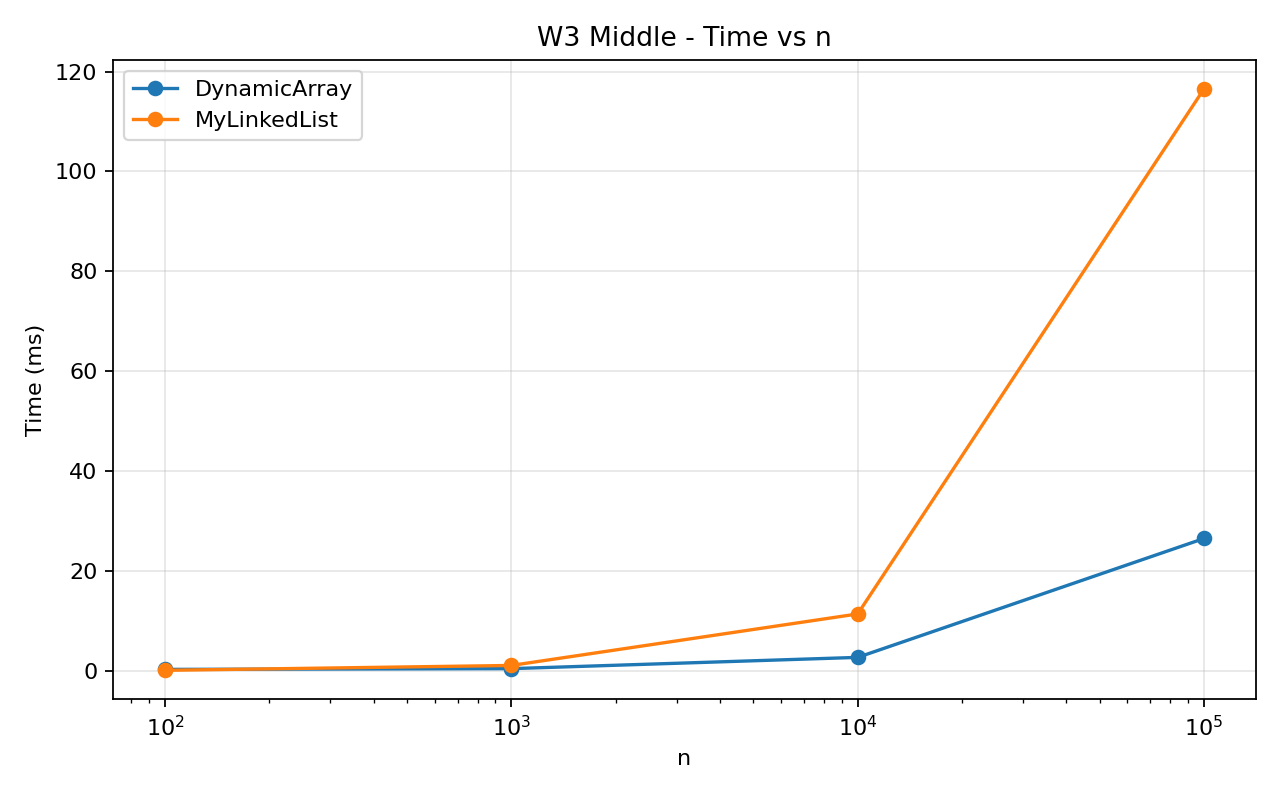
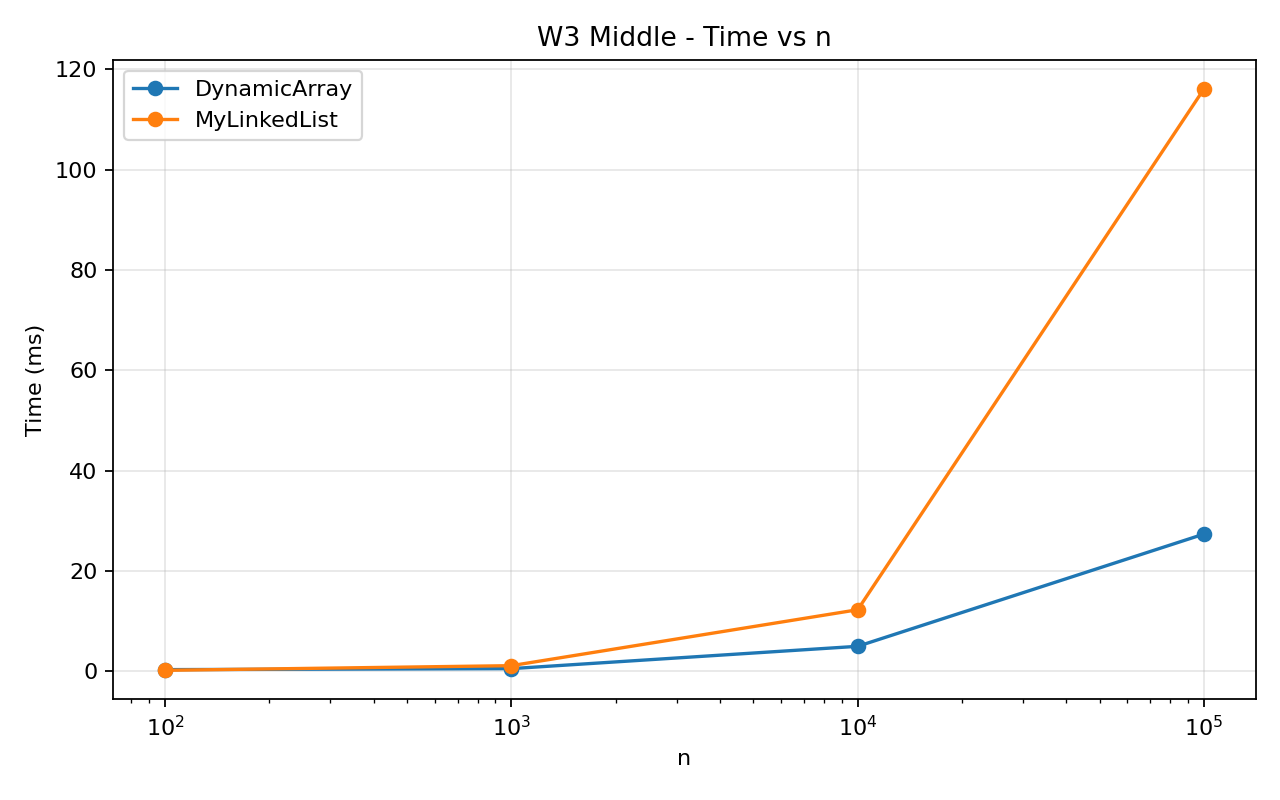
refactor(benchmark): keep benchmark code simple

diff --git a/src/main/java/assignment2/Benchmark.java b/src/main/java/assignment2/Benchmark.java
@@ -4,18 +4,13 @@ import java.io.File;
 import java.io.FileWriter;
 import java.io.IOException;
 import java.io.PrintWriter;
-import java.util.Arrays;
-import java.util.Comparator;
 import java.util.Locale;
 import java.util.Random;
 
 public class Benchmark {
     private static final int[] SIZES = {100, 1_000, 10_000, 100_000};
     private static final int RUNS = 5;
-
-    private interface Action {
-        RunResult run();
-    }
+    private static long checkValue;
 
     private static class RunResult {
         double timeMs;
@@ -25,9 +20,9 @@ public class Benchmark {
 
         RunResult(double timeMs, Metrics metrics) {
             this.timeMs = timeMs;
-            this.steps = metrics.getSteps();
-            this.moves = metrics.getMoves();
-            this.comparisons = metrics.getComparisons();
+            steps = metrics.getSteps();
+            moves = metrics.getMoves();
+            comparisons = metrics.getComparisons();
         }
     }
 
@@ -39,20 +34,20 @@ public class Benchmark {
             resultFolder.mkdirs();
         }
 
-        try (PrintWriter writer = new PrintWriter(new FileWriter("results/results.csv"))) {
-            writer.println("workload,variant,structure,n,time_ms,steps,moves,comparisons");
+        PrintWriter writer = new PrintWriter(new FileWriter("results/results.csv"));
+        writer.println("workload,variant,structure,n,time_ms,steps,moves,comparisons");
 
-            for (int n : SIZES) {
-                int[] data = createData(n);
+        for (int n : SIZES) {
+            int[] data = createData(n);
 
-                System.out.println("Running n = " + n);
-                runW1(writer, data);
-                runW2(writer, data);
-                runW3(writer, data);
-                runW4(writer, data);
-            }
+            System.out.println("Running n = " + n);
+            runW1(writer, data);
+            runW2(writer, data);
+            runW3(writer, data);
+            runW4(writer, data);
         }
 
+        writer.close();
         System.out.println("Done. Results are in results/results.csv");
     }
 
@@ -68,45 +63,54 @@ public class Benchmark {
     }
 
     private static void runW1(PrintWriter writer, int[] data) {
-        int n = data.length;
         int[] indexes = new int[10_000];
         Random random = new Random(42);
 
         for (int i = 0; i < indexes.length; i++) {
-            indexes[i] = random.nextInt(n);
+            indexes[i] = random.nextInt(data.length);
         }
 
-        RunResult arrayResult = measure(() -> runRandomAccess(new DynamicArray(), data, indexes));
-        writeRow(writer, "W1", "-", "DynamicArray", n, arrayResult);
+        RunResult arrayResult = measureRandomAccess("DynamicArray", data, indexes);
+        writeRow(writer, "W1", "-", "DynamicArray", data.length, arrayResult);
 
-        RunResult listResult = measure(() -> runRandomAccess(new MyLinkedList(), data, indexes));
-        writeRow(writer, "W1", "-", "MyLinkedList", n, listResult);
+        RunResult listResult = measureRandomAccess("MyLinkedList", data, indexes);
+        writeRow(writer, "W1", "-", "MyLinkedList", data.length, listResult);
+    }
+
+    private static RunResult measureRandomAccess(String name, int[] data, int[] indexes) {
+        runRandomAccess(createList(name), data, indexes);
+
+        RunResult[] results = new RunResult[RUNS];
+        for (int i = 0; i < RUNS; i++) {
+            results[i] = runRandomAccess(createList(name), data, indexes);
+        }
+
+        return getMedian(results);
     }
 
     private static RunResult runRandomAccess(IntList structure, int[] data, int[] indexes) {
         fillList(structure, data);
         structure.resetMetrics();
 
+        long sum = 0;
         long start = System.nanoTime();
-        long check = 0;
 
         for (int index : indexes) {
-            check += structure.get(index);
+            sum += structure.get(index);
         }
 
         long end = System.nanoTime();
-        use(check);
+        checkValue = sum;
 
         return new RunResult(toMs(start, end), structure.getMetrics());
     }
 
     private static void runW2(PrintWriter writer, int[] data) {
-        int n = data.length;
         int[] queries = new int[1_000];
         Random random = new Random(42);
 
         for (int i = 0; i < 500; i++) {
-            queries[i] = data[random.nextInt(n)];
+            queries[i] = data[random.nextInt(data.length)];
         }
 
         for (int i = 500; i < 1_000; i++) {
@@ -115,19 +119,30 @@ public class Benchmark {
 
         shuffle(queries, new Random(42));
 
-        RunResult arrayResult = measure(() -> runSearch(new DynamicArray(), data, queries));
-        writeRow(writer, "W2", "-", "DynamicArray", n, arrayResult);
+        RunResult arrayResult = measureSearch("DynamicArray", data, queries);
+        writeRow(writer, "W2", "-", "DynamicArray", data.length, arrayResult);
 
-        RunResult listResult = measure(() -> runSearch(new MyLinkedList(), data, queries));
-        writeRow(writer, "W2", "-", "MyLinkedList", n, listResult);
+        RunResult listResult = measureSearch("MyLinkedList", data, queries);
+        writeRow(writer, "W2", "-", "MyLinkedList", data.length, listResult);
+    }
+
+    private static RunResult measureSearch(String name, int[] data, int[] queries) {
+        runSearch(createList(name), data, queries);
+
+        RunResult[] results = new RunResult[RUNS];
+        for (int i = 0; i < RUNS; i++) {
+            results[i] = runSearch(createList(name), data, queries);
+        }
+
+        return getMedian(results);
     }
 
     private static RunResult runSearch(IntList structure, int[] data, int[] queries) {
         fillList(structure, data);
         structure.resetMetrics();
 
-        long start = System.nanoTime();
         int found = 0;
+        long start = System.nanoTime();
 
         for (int query : queries) {
             if (structure.contains(query)) {
@@ -136,13 +151,12 @@ public class Benchmark {
         }
 
         long end = System.nanoTime();
-        use(found);
+        checkValue = found;
 
         return new RunResult(toMs(start, end), structure.getMetrics());
     }
 
     private static void runW3(PrintWriter writer, int[] data) {
-        int n = data.length;
         int[] values = new int[1_000];
         Random random = new Random(42);
 
@@ -150,19 +164,30 @@ public class Benchmark {
             values[i] = random.nextInt(1_000_000);
         }
 
-        RunResult arrayHead = measure(() -> runInsertRemove(new DynamicArray(), data, values, 0));
-        writeRow(writer, "W3", "head", "DynamicArray", n, arrayHead);
+        RunResult arrayHead = measureInsertRemove("DynamicArray", data, values, 0);
+        writeRow(writer, "W3", "head", "DynamicArray", data.length, arrayHead);
 
-        RunResult listHead = measure(() -> runInsertRemove(new MyLinkedList(), data, values, 0));
-        writeRow(writer, "W3", "head", "MyLinkedList", n, listHead);
+        RunResult listHead = measureInsertRemove("MyLinkedList", data, values, 0);
+        writeRow(writer, "W3", "head", "MyLinkedList", data.length, listHead);
 
-        int middle = n / 2;
+        int middle = data.length / 2;
 
-        RunResult arrayMiddle = measure(() -> runInsertRemove(new DynamicArray(), data, values, middle));
-        writeRow(writer, "W3", "middle", "DynamicArray", n, arrayMiddle);
+        RunResult arrayMiddle = measureInsertRemove("DynamicArray", data, values, middle);
+        writeRow(writer, "W3", "middle", "DynamicArray", data.length, arrayMiddle);
 
-        RunResult listMiddle = measure(() -> runInsertRemove(new MyLinkedList(), data, values, middle));
-        writeRow(writer, "W3", "middle", "MyLinkedList", n, listMiddle);
+        RunResult listMiddle = measureInsertRemove("MyLinkedList", data, values, middle);
+        writeRow(writer, "W3", "middle", "MyLinkedList", data.length, listMiddle);
+    }
+
+    private static RunResult measureInsertRemove(String name, int[] data, int[] values, int index) {
+        runInsertRemove(createList(name), data, values, index);
+
+        RunResult[] results = new RunResult[RUNS];
+        for (int i = 0; i < RUNS; i++) {
+            results[i] = runInsertRemove(createList(name), data, values, index);
+        }
+
+        return getMedian(results);
     }
 
     private static RunResult runInsertRemove(IntList structure, int[] data, int[] values, int index) {
@@ -185,9 +210,15 @@ public class Benchmark {
     }
 
     private static void runW4(PrintWriter writer, int[] data) {
-        int n = data.length;
-        RunResult result = measure(() -> runHeap(data));
-        writeRow(writer, "W4", "-", "MinHeap", n, result);
+        runHeap(data);
+
+        RunResult[] results = new RunResult[RUNS];
+        for (int i = 0; i < RUNS; i++) {
+            results[i] = runHeap(data);
+        }
+
+        RunResult median = getMedian(results);
+        writeRow(writer, "W4", "-", "MinHeap", data.length, median);
     }
 
     private static RunResult runHeap(int[] data) {
@@ -217,18 +248,26 @@ public class Benchmark {
         return new RunResult(toMs(start, end), heap.getMetrics());
     }
 
-    private static RunResult measure(Action action) {
-        action.run();
-
-        RunResult[] results = new RunResult[RUNS];
-
-        for (int i = 0; i < RUNS; i++) {
-            results[i] = action.run();
+    private static IntList createList(String name) {
+        if (name.equals("DynamicArray")) {
+            return new DynamicArray();
         }
 
-        RunResult[] sorted = Arrays.copyOf(results, results.length);
-        Arrays.sort(sorted, Comparator.comparingDouble(result -> result.timeMs));
-        return sorted[RUNS / 2];
+        return new MyLinkedList();
+    }
+
+    private static RunResult getMedian(RunResult[] results) {
+        for (int i = 0; i < results.length - 1; i++) {
+            for (int j = i + 1; j < results.length; j++) {
+                if (results[j].timeMs < results[i].timeMs) {
+                    RunResult temp = results[i];
+                    results[i] = results[j];
+                    results[j] = temp;
+                }
+            }
+        }
+
+        return results[results.length / 2];
     }
 
     private static void fillList(IntList structure, int[] data) {
@@ -262,11 +301,5 @@ public class Benchmark {
 
     private static double toMs(long start, long end) {
         return (end - start) / 1_000_000.0;
-    }
-
-    private static volatile long blackHole;
-
-    private static void use(long value) {
-        blackHole = value;
     }
 }

diff --git a/REPORT.md b/REPORT.md
@@ -87,7 +87,7 @@ So `contains(x)` correctly returns `true` only when the value is present and ret
 
 For each structure I first inserted `n` values and then performed 10 000 calls to `get(index)` with random indexes.
 
-At `n = 100 000`, `DynamicArray` used exactly 10 000 measured array reads and had a median time of about **0.0142 ms** in this run. `MyLinkedList` needed about **502 489 208** pointer steps and had a median time of about **585.6920 ms**. The exact timing can change between computers, but the operation counts explain the large difference.
+At `n = 100 000`, `DynamicArray` used exactly 10 000 measured array reads and had a median time of about **0.0292 ms** in this run. `MyLinkedList` needed about **502 489 208** pointer steps and had a median time of about **597.9355 ms**. The exact timing can change between computers, but the operation counts explain the large difference.
 
 ![W1 time](results/plots/w1_time.png)
 
@@ -97,7 +97,7 @@ At `n = 100 000`, `DynamicArray` used exactly 10 000 measured array reads and ha
 
 For search I made 1 000 `contains(x)` queries. Half of them used values taken from the structure and half used negative values that were not in the generated input.
 
-At `n = 100 000`, both structures performed about **73.7 million comparisons**. `DynamicArray` took about **31.0906 ms**, while `MyLinkedList` took about **101.8850 ms**. The asymptotic behavior is similar, but the array was faster in this experiment.
+At `n = 100 000`, both structures performed about **73.7 million comparisons**. `DynamicArray` took about **32.2366 ms**, while `MyLinkedList` took about **113.1347 ms**. The asymptotic behavior is similar, but the array was faster in this experiment.
 
 ![W2 time](results/plots/w2_time.png)
 
@@ -107,9 +107,9 @@ At `n = 100 000`, both structures performed about **73.7 million comparisons**. 
 
 This workload has two variants. The `head` variant performs 1 000 insertions and 1 000 removals at index 0. The `middle` variant uses index `n / 2`.
 
-At `n = 100 000` in the head variant, `DynamicArray` performed about **200 999 000 moves** and took about **54.4464 ms**. `MyLinkedList` only needed direct head updates and took about **0.0532 ms** in the same benchmark run.
+At `n = 100 000` in the head variant, `DynamicArray` performed about **200 999 000 moves** and took about **60.9442 ms**. `MyLinkedList` only needed direct head updates and took about **0.0652 ms** in the same benchmark run.
 
-In the middle variant at `n = 100 000`, `DynamicArray` took about **26.5708 ms**, while `MyLinkedList` took about **116.5421 ms**. The list avoids shifting stored values, but it still has to traverse to the middle for every operation, so the traversal becomes expensive.
+In the middle variant at `n = 100 000`, `DynamicArray` took about **27.3654 ms**, while `MyLinkedList` took about **116.0951 ms**. The list avoids shifting stored values, but it still has to traverse to the middle for every operation, so the traversal becomes expensive.
 
 ![W3 head time](results/plots/w3_head_time.png)
 
@@ -123,7 +123,7 @@ In the middle variant at `n = 100 000`, `DynamicArray` took about **26.5708 ms**
 
 For the heap workload I inserted all `n` values and then repeatedly called `extractMin()` until the heap was empty. During the benchmark the returned values were checked to make sure they were in non-decreasing order.
 
-At `n = 100 000`, the measured median time was about **9.9203 ms**. The counters recorded about **9.28 million array reads**, **3.32 million moves**, and **3.06 million comparisons**. The growth is consistent with insert and extraction operations that can travel through the height of the binary heap.
+At `n = 100 000`, the measured median time was about **10.5343 ms**. The counters recorded about **9.28 million array reads**, **3.32 million moves**, and **3.06 million comparisons**. The growth is consistent with insert and extraction operations that can travel through the height of the binary heap.
 
 ![W4 time](results/plots/w4_time.png)
 
